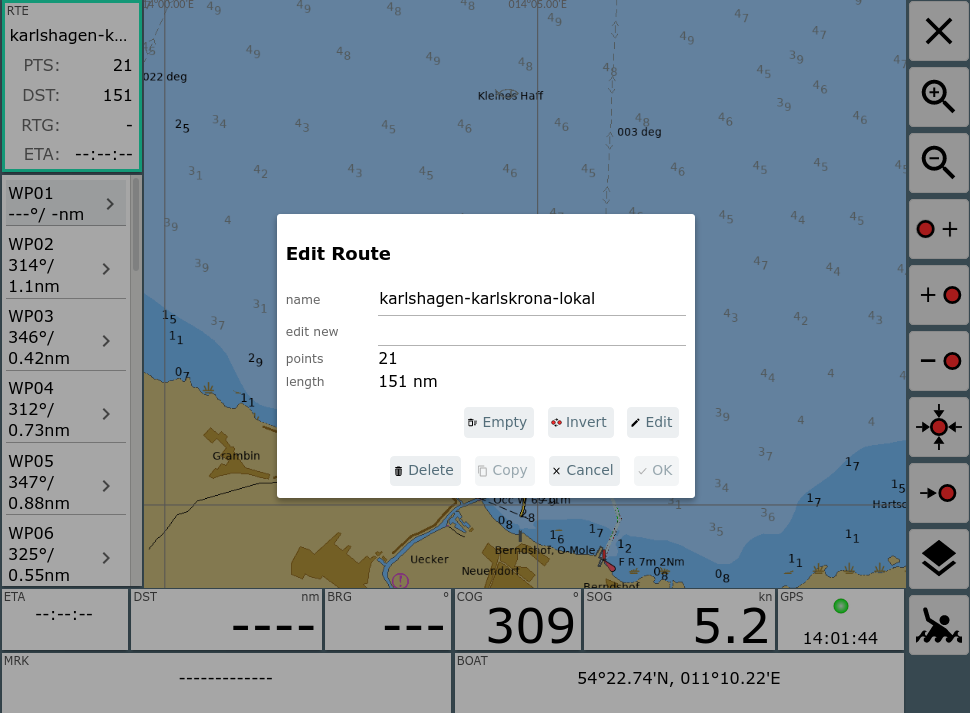
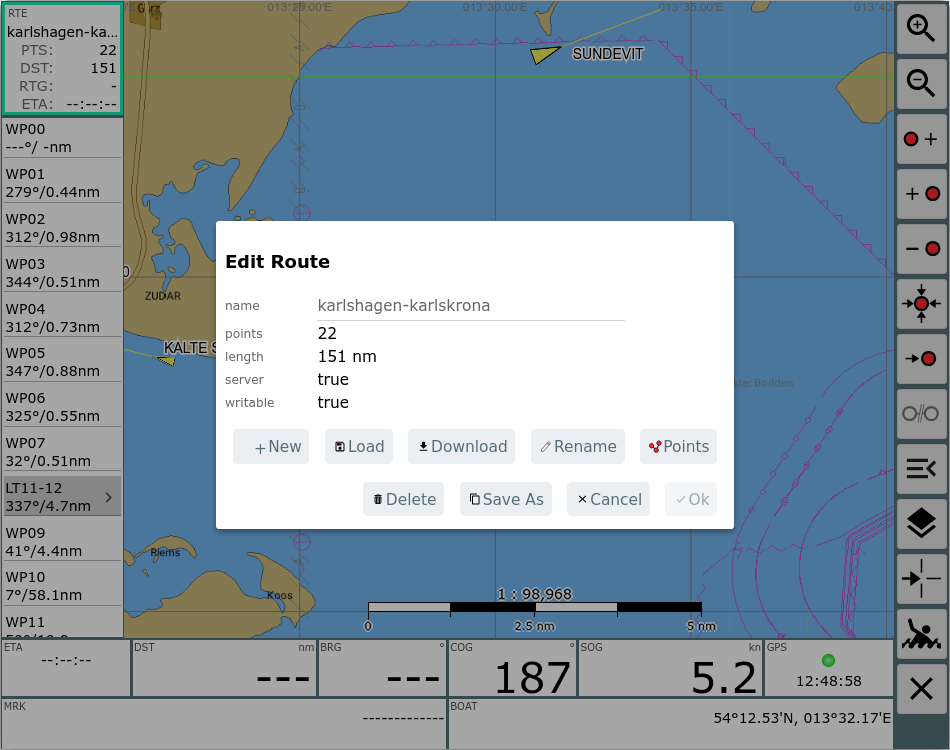
doc: update editroutepage

diff --git a/docs/userdoc/en_editroutepage.html b/docs/userdoc/en_editroutepage.html
@@ -1,8 +1,7 @@
 <!DOCTYPE html>
 <html>
-<head>
-<meta http-equiv="content-type" content="text/html; charset=utf-8">
-
+  <head>
+    <meta http-equiv="content-type" content="text/html; charset=utf-8">
     <title>AvNav Route Editor</title>
     <link href="../styles.css" rel="stylesheet" type="text/css">
   </head>
@@ -13,8 +12,8 @@
     <p>You will enter the route editor by clicking the&nbsp; <img src="../viewerimages/icons-new/route.svg"
         alt="" class="inlineimage"> button on the <a href="navpage.html">navigation
         page</a> . Additionally you can get to it via the <img src="../viewerimages/icons-new/ic_edit.svg"
-		 alt="" class="inlineimage">Edit button in the route's info dialog on the <a href="downloadpage.html#filedialog">Files/Download</a>
-      page.</p>
+        alt="" class="inlineimage">Edit button in the route's info dialog on the
+      <a href="downloadpage.html#filedialog">Files/Download</a> page.</p>
     <div> <img src="routeedit-demo-start.png" alt="" class="fimage"><span style="font-weight: bold;"><br>
       </span></div>
     <div><span style="font-weight: bold;"><br>
@@ -81,9 +80,28 @@
           </td>
         </tr>
         <tr>
+          <td><img src="../viewerimages/icons-new/stop-nav.svg" alt="" class="inlineimage"><br>
+          </td>
+          <td>StopNav</td>
+          <td>stop a running navigation (if one is currently active)</td>
+        </tr>
+        <tr>
+          <td><img src="../viewerimages/icons-new/menu_open.svg" alt="" class="inlineimage"><br>
+          </td>
+          <td>Menu</td>
+          <td>show the EditRoute dialog to create/load/modify/rename a route</td>
+        </tr>
+        <tr>
           <td><img src="../viewerimages/icons-new/layers-black.svg" alt="" class="inlineimage"></td>
           <td>NavOverlays</td>
           <td>show and hide <a href="../hints/overlays.html">Overlays</a></td>
+        </tr>
+        <tr>
+          <td><img src="../viewerimages/icons-new/center-action.svg" alt="" class="inlineimage"><br>
+          </td>
+          <td>CenterAction</td>
+          <td>same action as tapping at the map center (crosshairs), brings up
+            the Feature List</td>
         </tr>
         <tr>
           <td><img src="../viewerimages/icons-new/drowning.svg" alt="" class="inlineimage"><br>
@@ -101,48 +119,111 @@
       </tbody>
     </table>
     <p>At this page you can create and edit a route.</p>
-    <p>There is always a currently selected point within the
-      route. It is marked red on the chart and marked grey in the list on the
-      left side. You can change the selected point by clicking a different
-      point on the chart or in the list on the left side.<br>
+    <p>There is always a currently selected point within the route. It is marked
+      red on the chart and marked grey in the list on the left side. You can
+      change the selected point by clicking a different point on the chart or in
+      the list on the left side.<br>
       If you are editing the currently active route, the route info at the left
       side will display a red border (otherwise green).<br>
       Leaving the editor will take you back to the active route.</p>
     <p>All changes become effective immediately - there is no undo.</p>
     <p>At the left side you see a list of all the route's waypoints including
-      courses and distances. On top of the list the number of waypoints, the overall route
-      length and - if the route is active - the estimated ETA are displayed.<br>
-      By clicking an already selected waypoint in the list you open an
-      edit dialog to change its name or position.</p>
-    <h2><a name="routedialog" id="routedialog"></a>Route Dialog</h2>
-    <p> Clicking on the route info on the left side opens a dialog.</p>
+      courses and distances. On top of the list the number of waypoints, the
+      overall route length and - if the route is active - the estimated ETA are
+      displayed.<br>
+      By clicking an already selected waypoint in the list you open an edit
+      dialog to change its name or position.</p>
+    <h2><a name="routedialog" id="routedialog"></a>EditRoute Dialog</h2>
+    <p> Clicking on the route info on the left side or the <img src="../viewerimages/icons-new/menu_open.svg"
+        alt="" class="inlineimage">Menu Button opens a dialog.</p>
     <p><img src="editroutepage-editroutedialog.png" alt="" class="fimage"></p>
-    <p>Within this dialog you can change the name of the route, select a
-      new route to be edited, copy the route, delete it, empty or
-      invert it. </p>
-    <p>Clicking Edit will take you to the <a href="routepage.html">route list</a>.
-      At this page you can delete and edit all points, change the name, invert
-      or load a new route.</p>
-    <p>Clicking the bottom left panel activates some additional buttons.</p>
+    <p>Within this dialog you have the following actions available:</p>
+    <table style="width: 100%" border="1">
+      <tbody>
+        <tr>
+          <td>Action </td>
+          <td>Description</td>
+        </tr>
+        <tr>
+          <td>New</td>
+          <td>Create a new route. You will be prompted for a name. The new route
+            will be empty.</td>
+        </tr>
+        <tr>
+          <td>Load</td>
+          <td>Load an existing route. This bring up a select list with the
+            routes being stored at the server if you are in connected mode
+            (normal). If in disconnected mode you can load routes being stored
+            locally.<br>
+            The dialog will also include an Upload button to load a route that
+            you have available locally as a gpx file. It will upload this route
+            to AvNav.</td>
+        </tr>
+        <tr>
+          <td>Download</td>
+          <td>Download the current route to store it locally on your device.</td>
+        </tr>
+        <tr>
+          <td>Rename</td>
+          <td>Give the route a new name.</td>
+        </tr>
+        <tr>
+          <td>Points</td>
+          <td>Open the <a href="#pointsdialog">Points dialog</a> to invert,
+            renumber or empty the list of route points.</td>
+        </tr>
+        <tr>
+          <td>Delete</td>
+          <td>Delete the current route from AvNav</td>
+        </tr>
+        <tr>
+          <td>SaveAs</td>
+          <td>Save a copy of the current route with a new name.</td>
+        </tr>
+        <tr>
+          <td>Cancel</td>
+          <td>Quit the dialog without saving</td>
+        </tr>
+        <tr>
+          <td>OK</td>
+          <td>Save your changes</td>
+        </tr>
+      </tbody>
+    </table>
+    <h3>Name Dialog</h3>
+    <p>From the EditRoute dialog some actions will bring up a name dialog to
+      select a new name for a route.</p>
+    <img src="editroutepage-namedialog.png" alt="" class="fimage">
+    <p>If the selected name already exists you can use the "Propose" action to
+      let the system propose a new name that currently does not exist.</p>
+    <h3><a name="pointsdialog" id="pointsdialog"></a>Points Dialog</h3>
+    <p>The "Points" action in the EditRoute dialog will bring up the Points
+      dialog.</p>
+    <p><img src="editroutepage-pointsdialog.png" alt="" class="fimage"></p>
+    <p>You can empty, invert or renumber the list of points. By clicking on a
+      point in the list a dialog will be brought up to edit this point (e.g.
+      changing the name).</p>
+    <h2>Route Point Buttons</h2>
+    <p>Clicking the bottom left panel activates some additional buttons. </p>
     <p><img src="editroute-wpbuttons.png" alt="" class="fimage"></p>
     <p>Using those buttons you can move between the points in the route or you
       can edit the selected waypoint.<br>
       Clicking the bottom right panel centers the chart at the boat's position.</p>
     <h2>Using Overlays</h2>
-    <p>If an <a href="../hints/overlays.html">overlay</a> is visible
-      (like in the picture) - or within <a href="../hints/ocharts.html">ocharts</a>
-      you can open a dialog by clicking an object on the chart. This
-      dialog provides some additional functions. </p>
+    <p>If an <a href="../hints/overlays.html">overlay</a> is visible (like in
+      the picture) - or within <a href="../hints/ocharts.html">ocharts</a> you
+      can open a dialog by clicking an object on the chart. This dialog provides
+      some additional functions. </p>
     <p><img src="../hints/Overlay-Example-InfoDialogRouting.png" alt="" class="fimage">
     </p>
-    <p>You can insert the object you clicked into the route (befor or
-      after the current red point). This way you can easily e.g. use points from
-      a waypoint file to create your routes.</p>
+    <p>You can insert the object you clicked into the route (befor or after the
+      current red point). This way you can easily e.g. use points from a
+      waypoint file to create your routes.</p>
     <p>If the overlay is a route you can insert the part after the clicked point
       into your current route.</p>
     <img src="../hints/Overlay-Example-InfoDialogRouting2.png" alt="" class="fimage">
-    <p>The dialog shows the selected start point of the route and you
-      can decide to insert before or after your current red point.</p>
+    <p>The dialog shows the selected start point of the route and you can decide
+      to insert before or after your current red point.</p>
     <p><br>
     </p>
     <p> </p>

diff --git a/docs/userdoc/index.html b/docs/userdoc/index.html
@@ -112,14 +112,6 @@
             Interface wenn konfiguriert)</td>
         </tr>
         <tr>
-          <td><br>
-          </td>
-          <td><a href="routepage.html">Route Liste</a></td>
-          <td>Klick auf die Anzeige der aktuellen Route im <a href="editroutepage.html">Routen-Editor</a></td>
-          <td>Anzeige aller Wegepunkte einer Route, Kopierfunktion, Bearbeitung,
-            Auswahl gespeicherter Routen</td>
-        </tr>
-        <tr>
           <td><img src="../viewerimages/icons-new/ic_rss_feed.svg" alt="" class="inlineimage"><br>
           </td>
           <td><a href="wpapage.html">Wifi Konfiguration</a></td>

diff --git a/docs/userdoc/en_index.html b/docs/userdoc/en_index.html
@@ -110,15 +110,6 @@
             ui)</td>
         </tr>
         <tr>
-          <td><br>
-          </td>
-          <td><a href="routepage.html">route list</a></td>
-          <td>click on the display of the active route inside the <a href="editroutepage.html">route
-              editor</a></td>
-          <td>display of all waypoints of a route, copy function, editing,
-            selecting stored routes</td>
-        </tr>
-        <tr>
           <td><img src="../viewerimages/icons-new/ic_rss_feed.svg" alt="" class="inlineimage"><br>
           </td>
           <td><a href="wpapage.html">wifi configuration</a></td>
